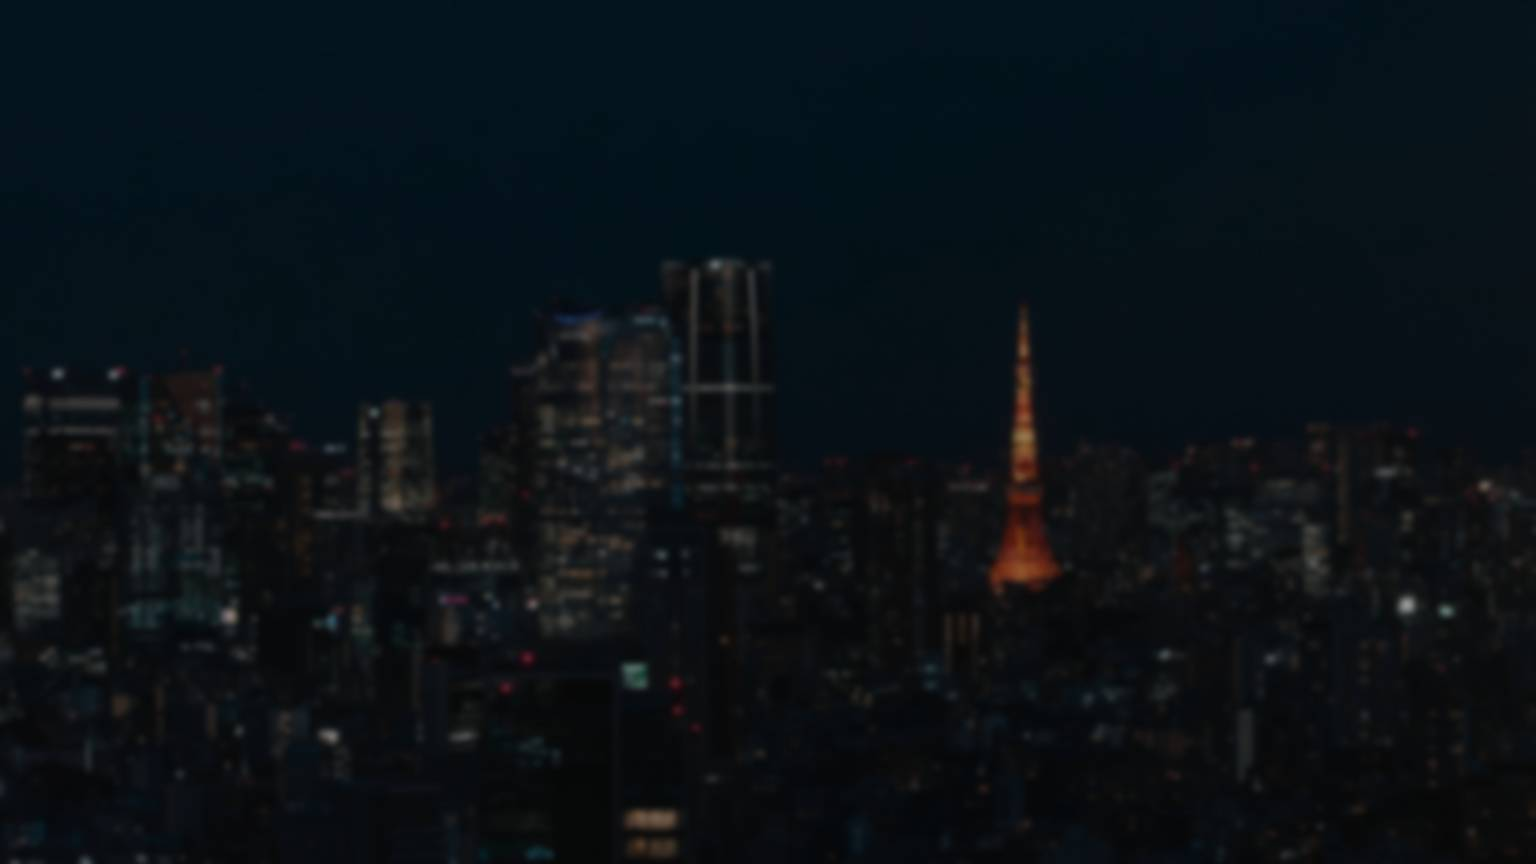
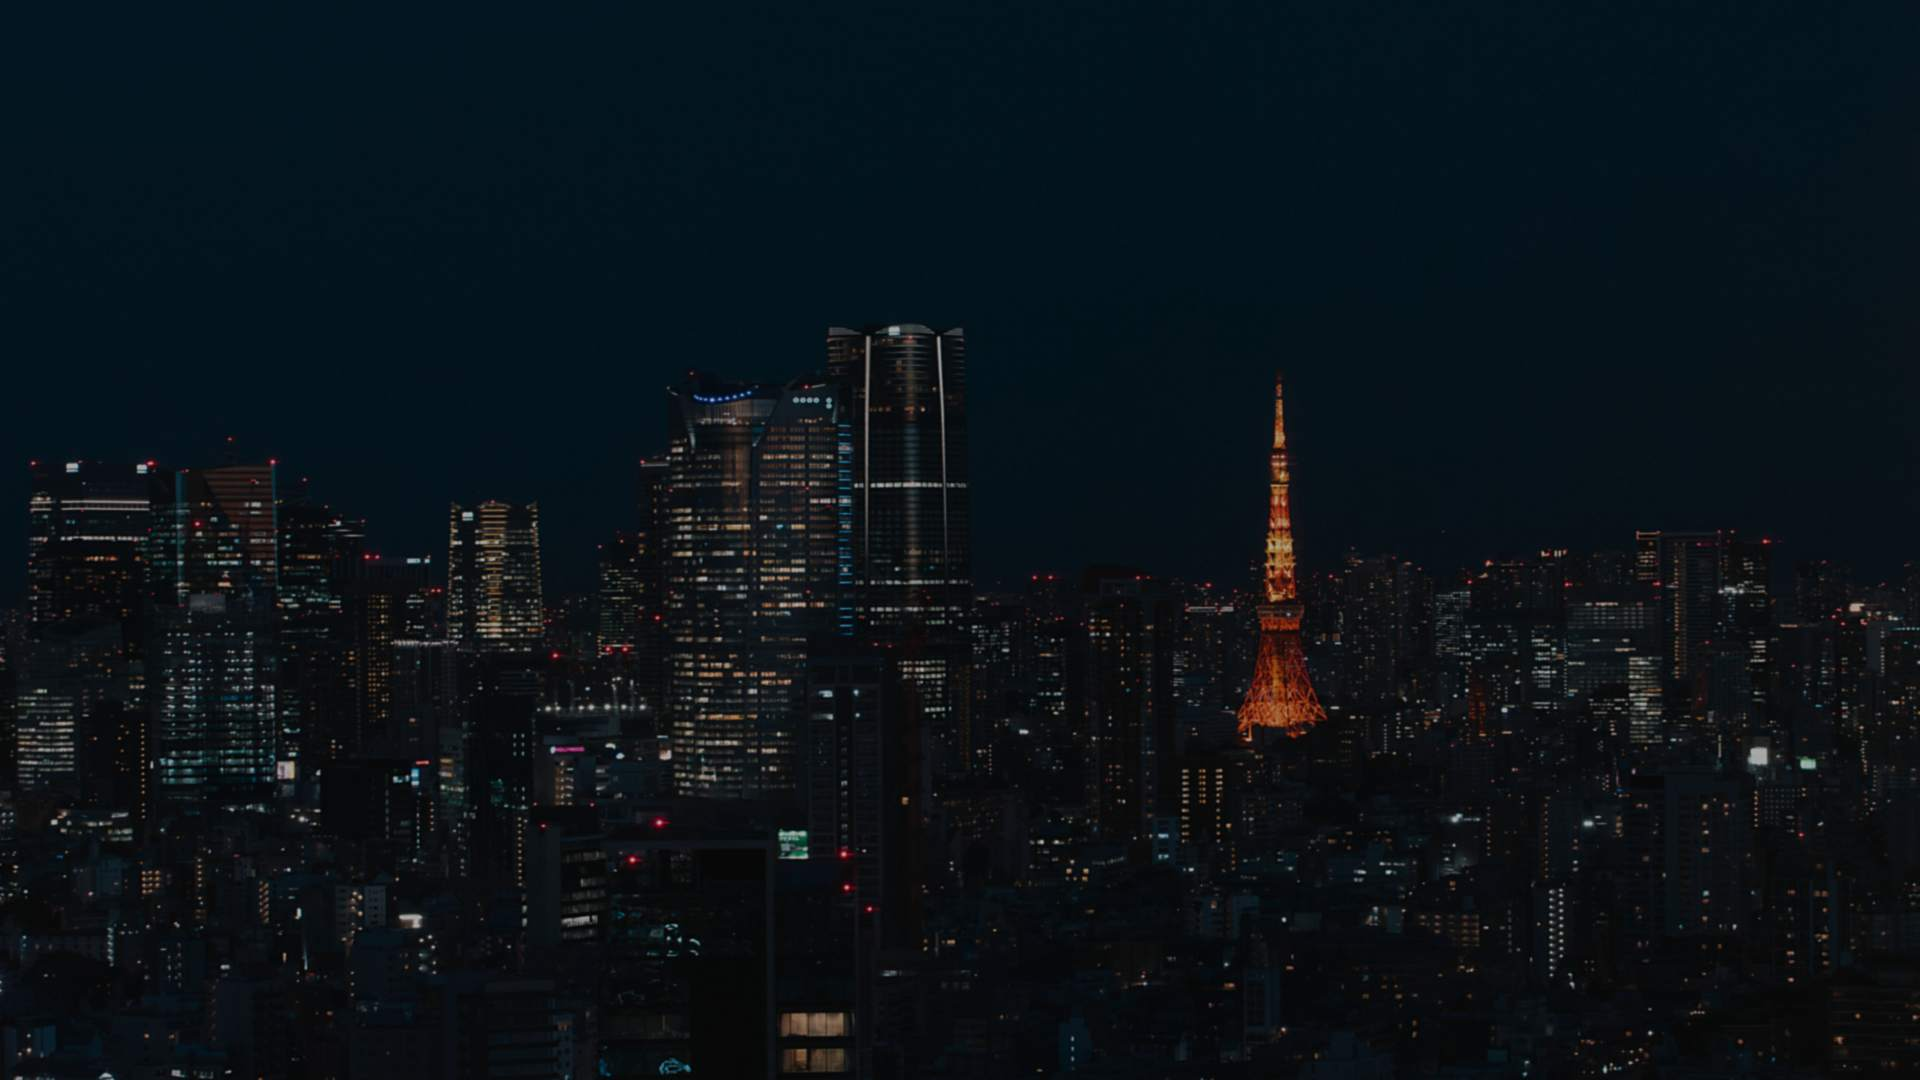
Quillin: sharper city backdrops
1920x1080 at blur radius 0.9 with a light unsharp mask, up from 1536x864
at 3.2 which read as fog. Quality traded down to hold the size increase,
since artefacts cannot show through the scrim but resolution can.

diff --git a/quillin/js/backdrop.js b/quillin/js/backdrop.js
@@ -9,10 +9,10 @@
    The blur and the darkening are baked into the files. Asking the browser to
    filter a full-screen image at 60fps costs far more than shipping one that is
    already soft, and on a phone it is the difference between a smooth drift and
-   a stuttering one. Each file is 30 to 53 KB.
+   a stuttering one. Each file is 95 to 160 KB.
 
    The photographs are the customer's own wallpapers, cropped to 16:9, blurred,
-   dimmed to 62% and desaturated, so type never has to compete with a skyline. */
+   dimmed to 66% and desaturated, so type never has to compete with a skyline. */
 
 (function () {
   'use strict';
@@ -62,8 +62,9 @@
     layer.style.backgroundImage = 'url("' + src + '")';
   }
 
-  /* Fetched one ahead rather than all at once. Ten photographs is 450 KB, and
-     nobody who came here to get a quote should wait on the ninth one. */
+  /* Fetched one ahead rather than all at once. Ten photographs is 1.3 MB, and
+     nobody who came here to get a quote should wait on the ninth one. At five
+     seconds a turn there is a full cycle of slack to fetch the next. */
   function warm(src) {
     var img = new Image();
     img.decoding = 'async';

diff --git a/quillin/index.html b/quillin/index.html
@@ -439,7 +439,7 @@
   <a href="#about" class="nav--apart">about</a>
 </nav>
 
-<script src="js/backdrop.js?v=98afcf63"></script>
+<script src="js/backdrop.js?v=fa3fd3aa"></script>
 <script src="js/landing.js?v=8b55d991"></script>
 <script src="js/vin.js?v=7b1d974c"></script>
 <script src="js/glass.js?v=1deb5234"></script>
